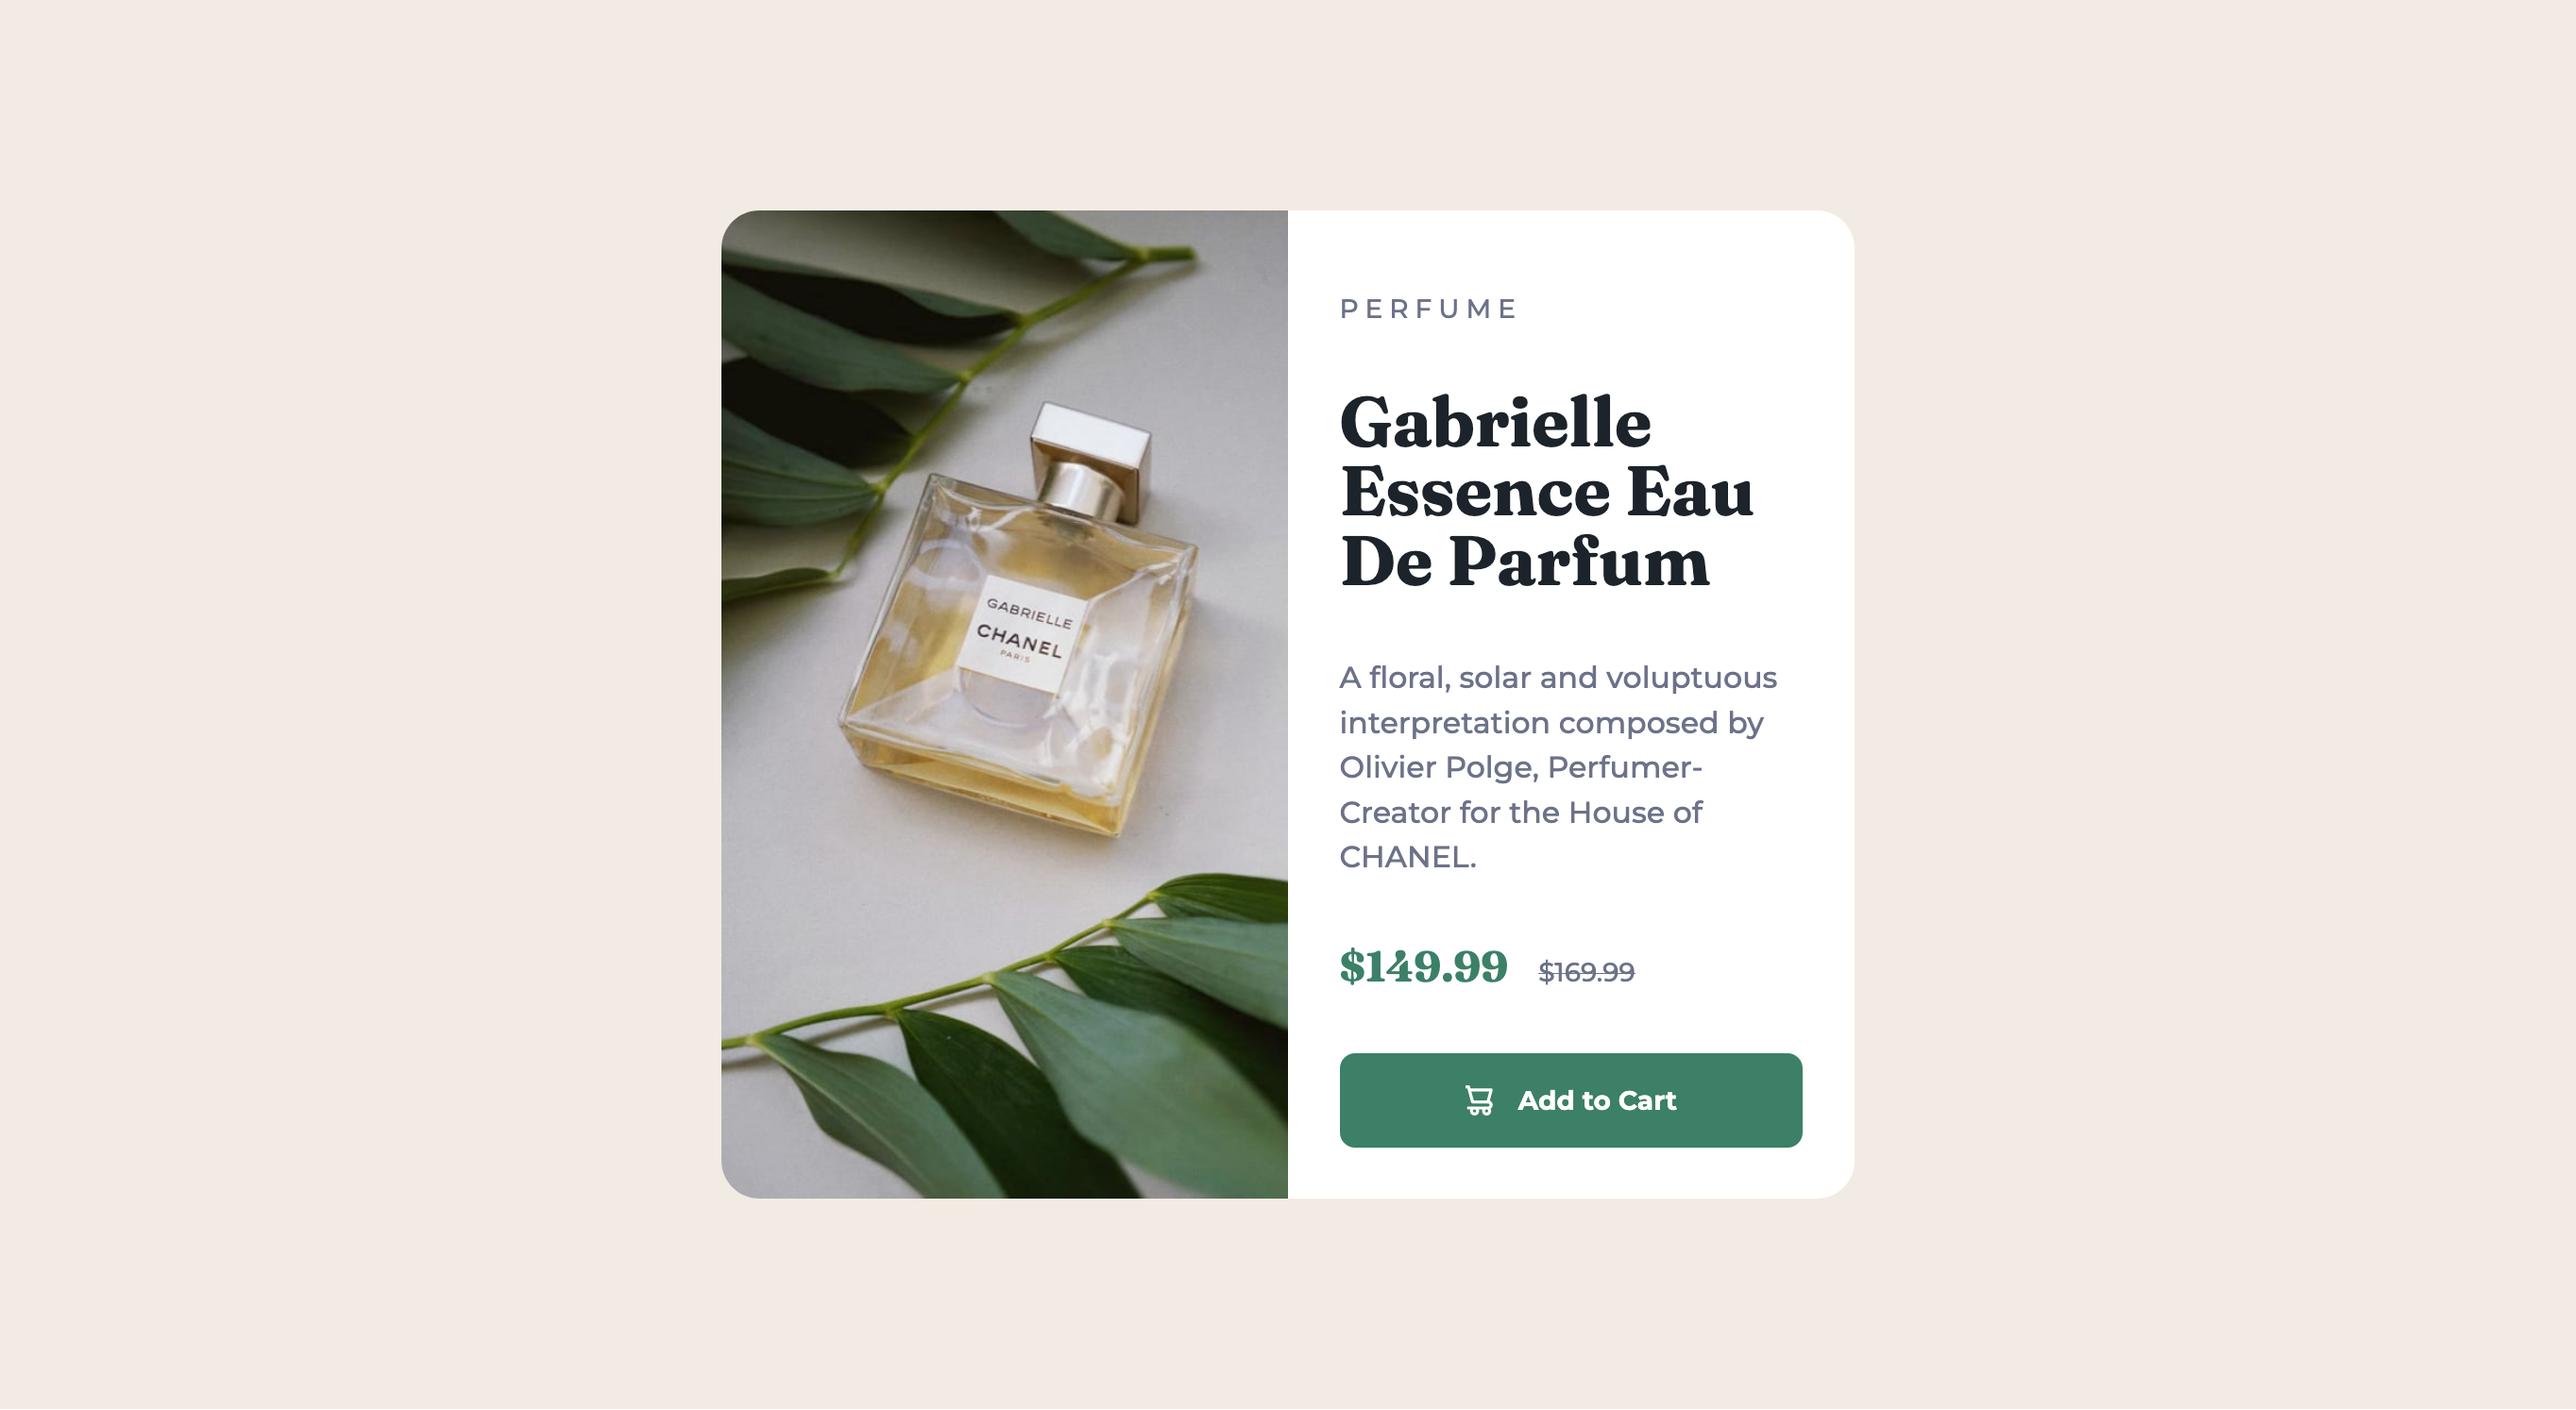
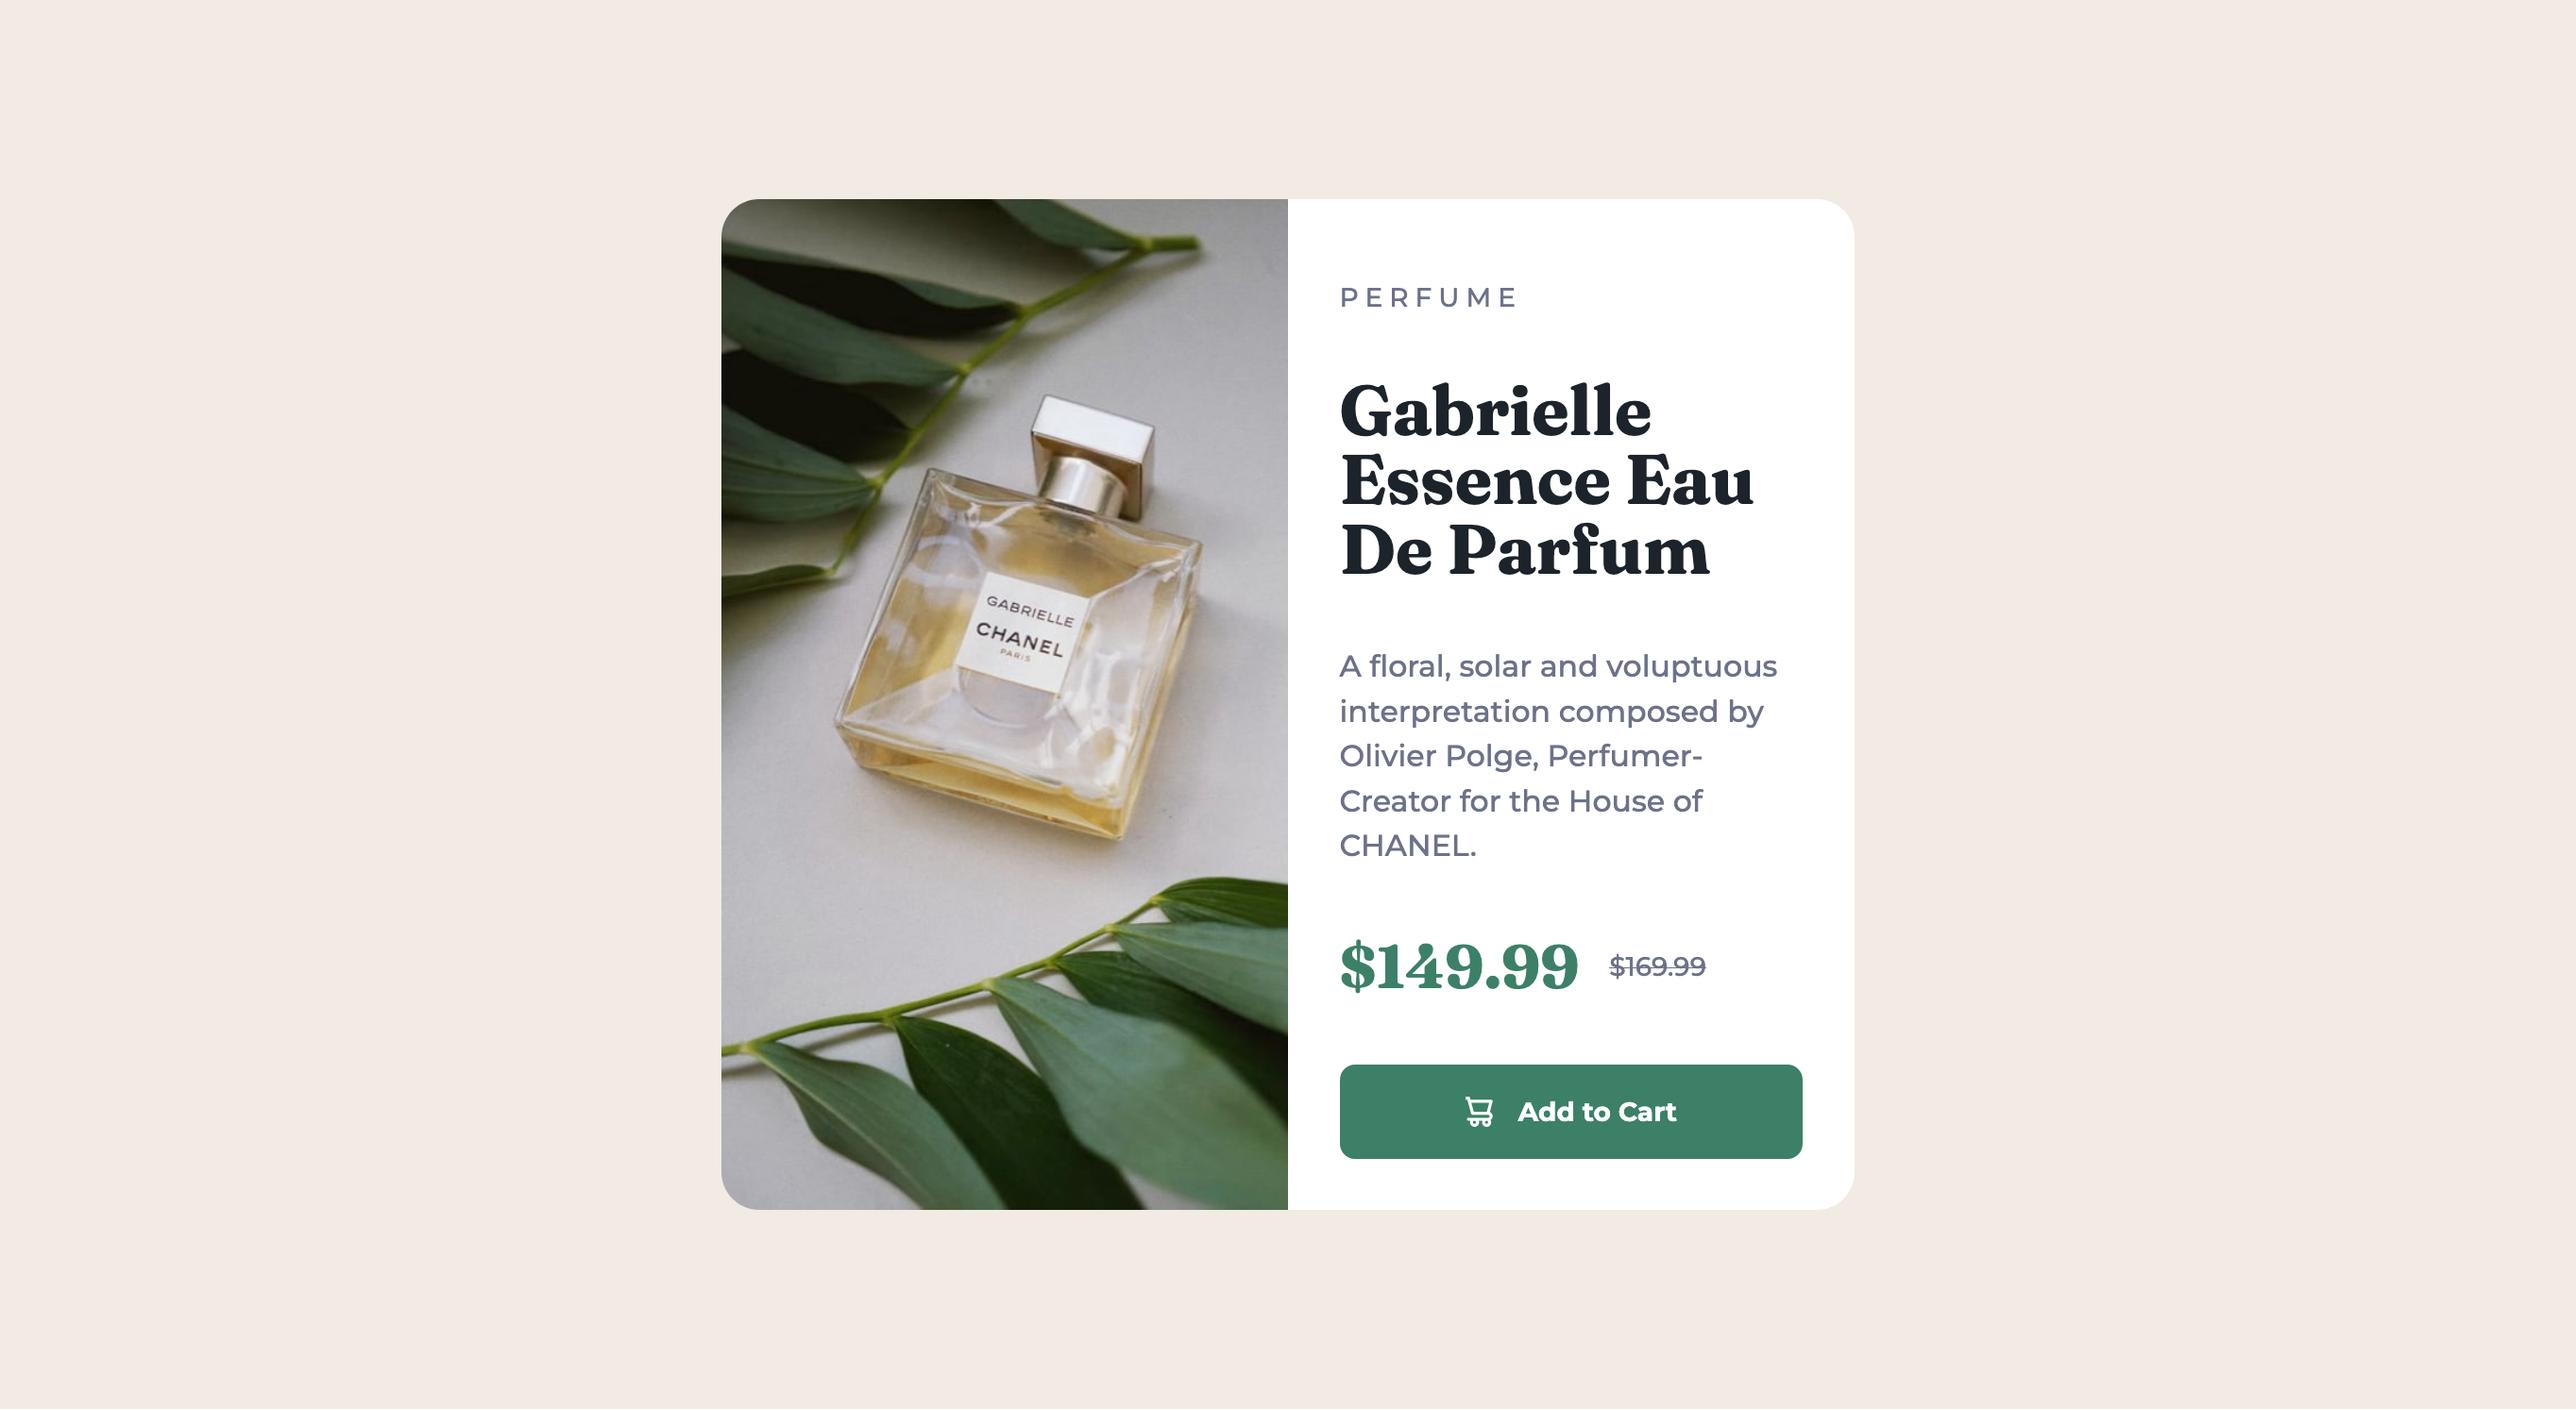
various minor refinements

diff --git a/styles.css b/styles.css
@@ -51,6 +51,7 @@ body {
 
 picture {
     display: block;
+    aspect-ratio: 3 / 2;
 }
 
 .hero {
@@ -96,14 +97,14 @@ h1 {
 
 .price {
     display: flex;
-    align-items: baseline;
+    align-items: center;
     gap: 1rem;
     width: 100%;
     margin-bottom: 1rem;
 }
 
 .price_main {
-    font-size: 1.4rem;
+    font-size: 2rem;
     color: var(--Green_500);
     font-family: 'Fraunces', serif;
 }
@@ -152,6 +153,10 @@ h1 {
     picture,
     .content-wrapper {
         width: 50%;
+    }
+
+    picture {
+        aspect-ratio: auto;
     }
 
     .hero {
